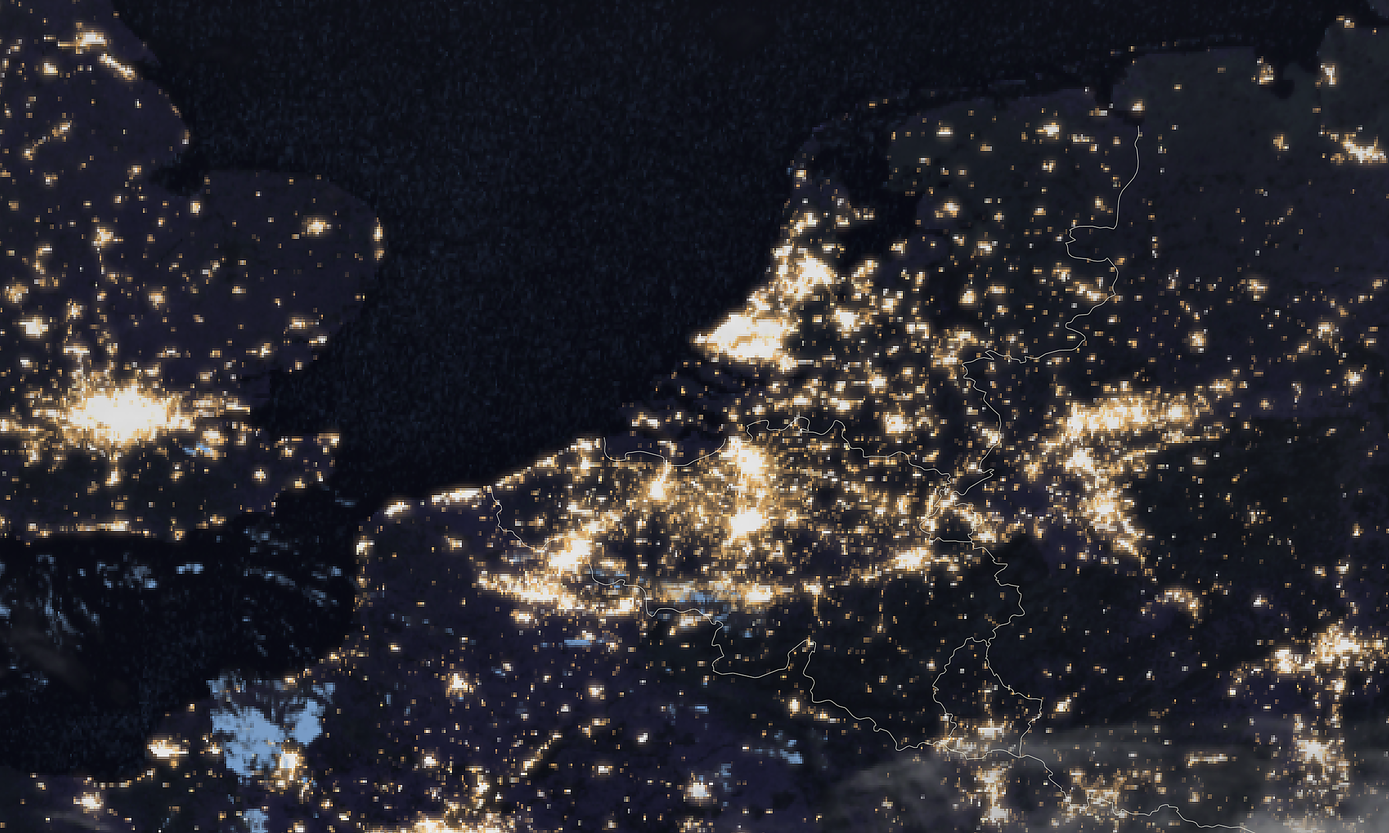
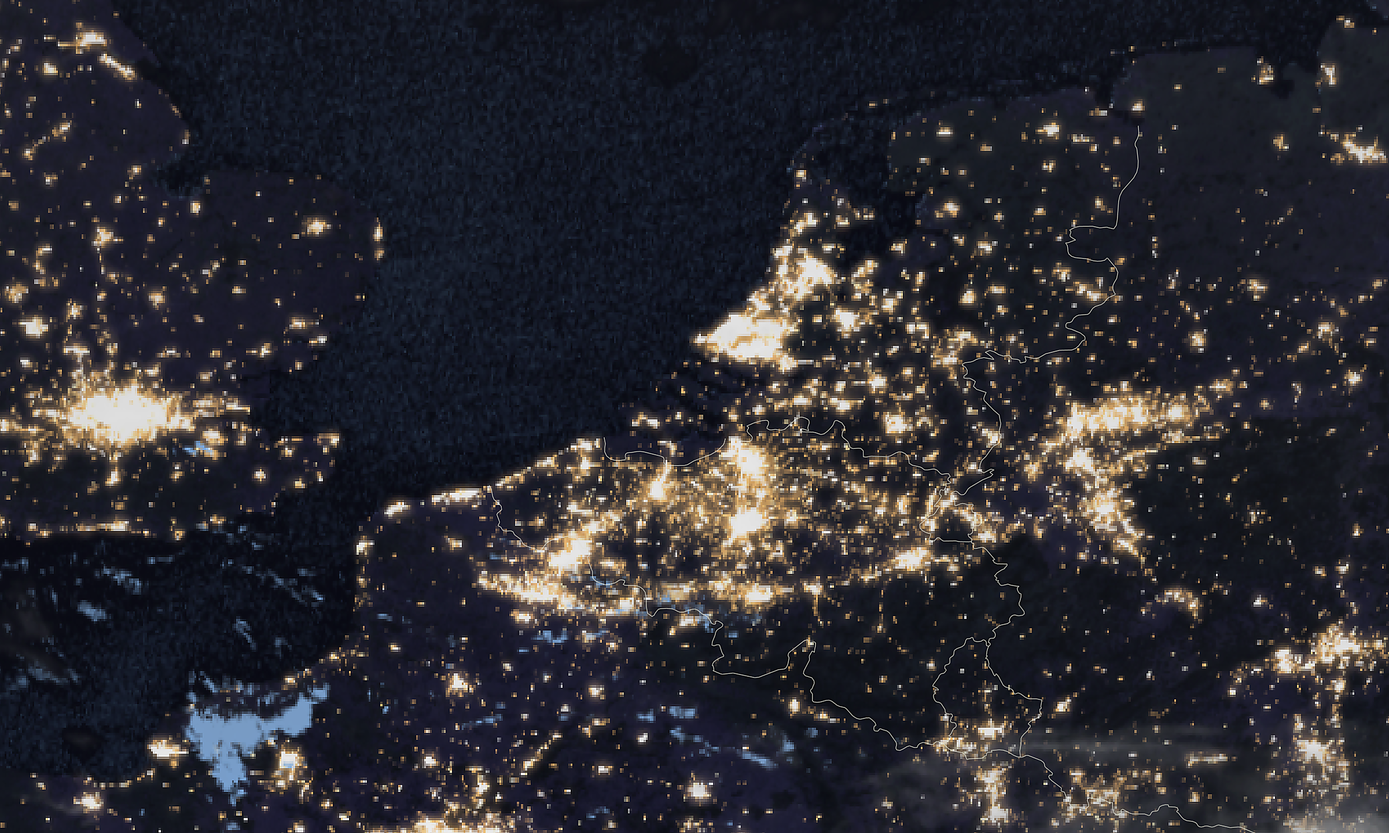
MTG Benelux satellietbeeld update 2026-04-29 02:30

diff --git a/mtg_benelux_meta.js b/mtg_benelux_meta.js
@@ -1,2 +1,2 @@
 const MTG_BENELUX_PRODUCT = "mtg_fd:rgb_geocolour";
-const MTG_BENELUX_TIJD = "2026-04-28T23:50:00Z";
+const MTG_BENELUX_TIJD = "2026-04-29T00:10:00Z";
